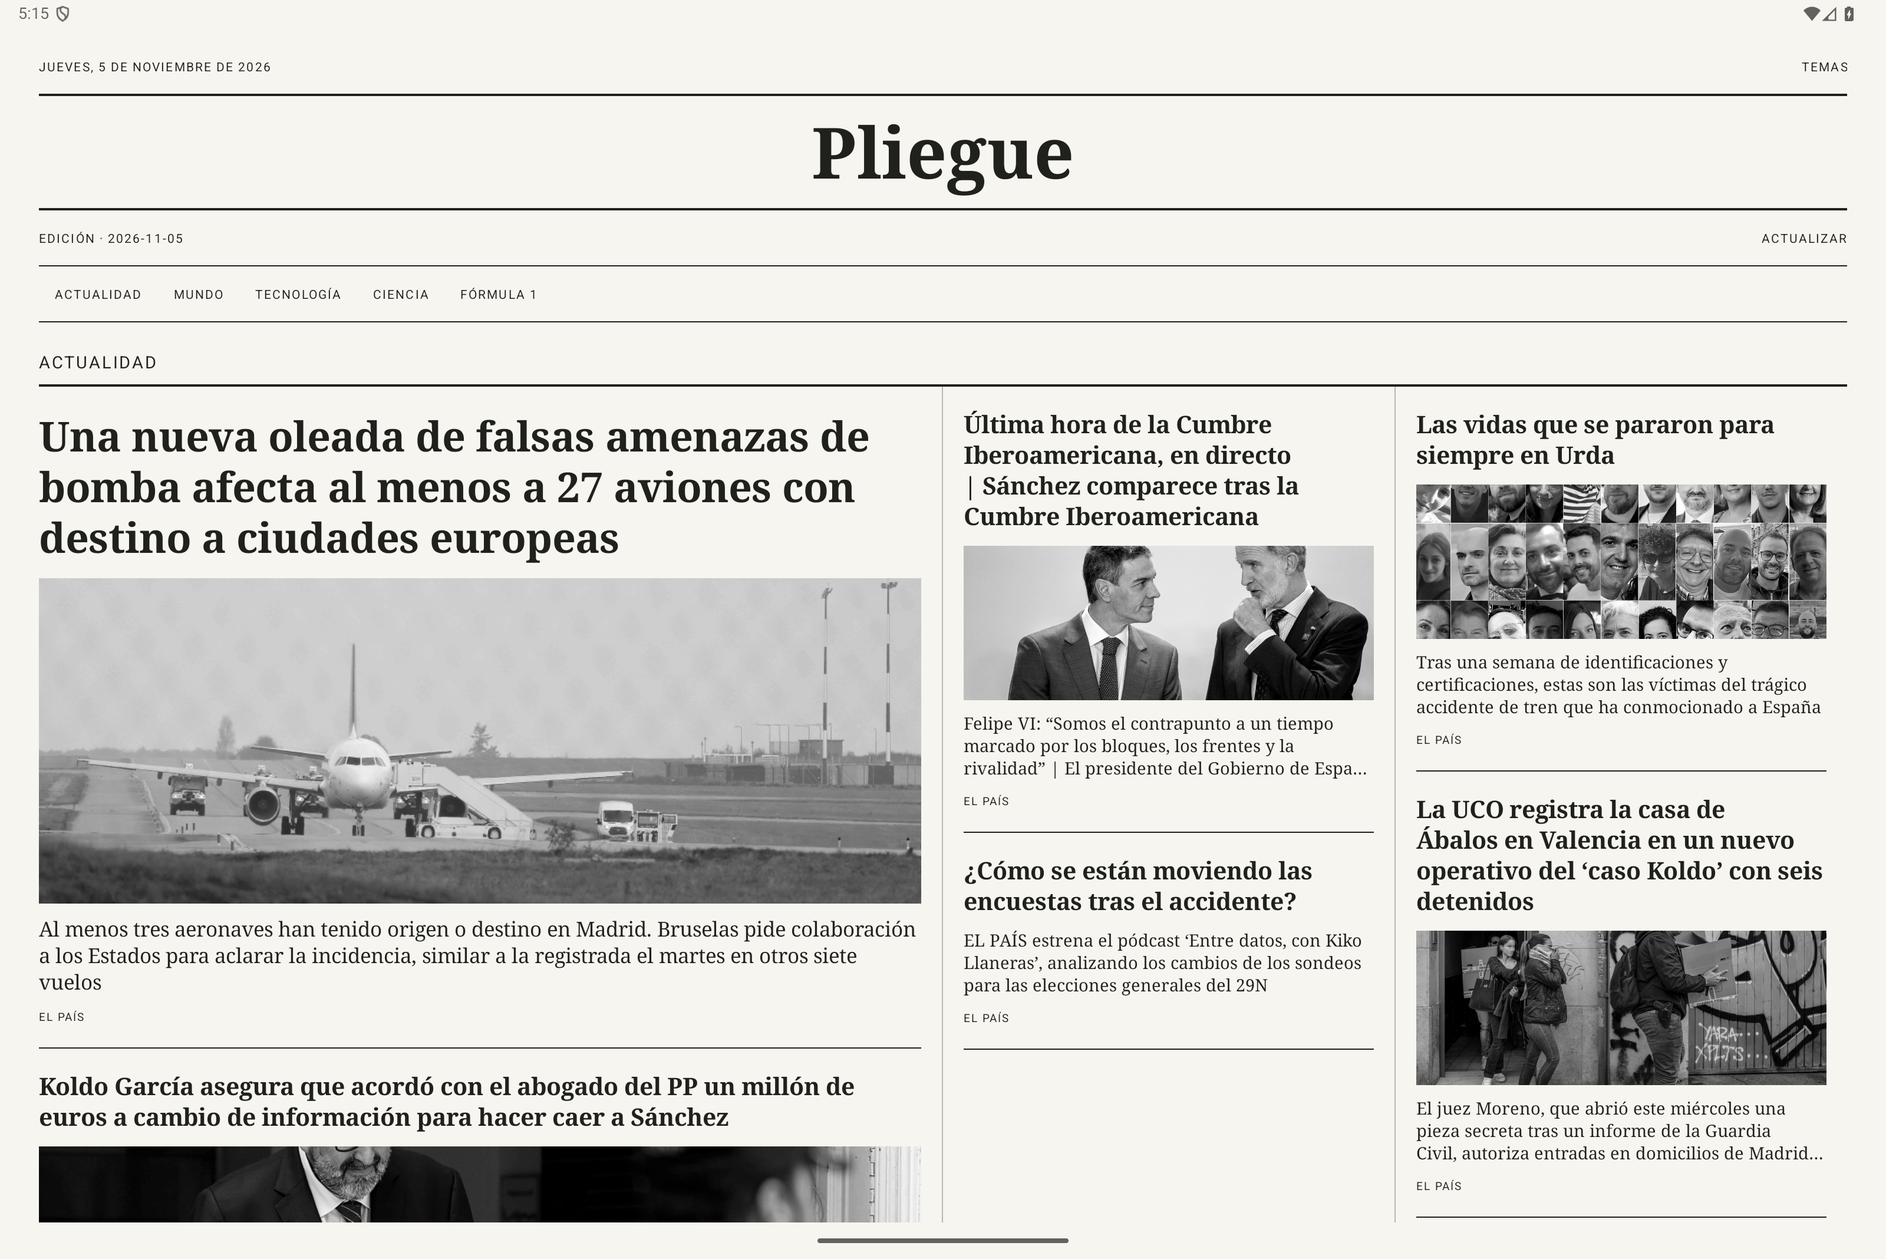
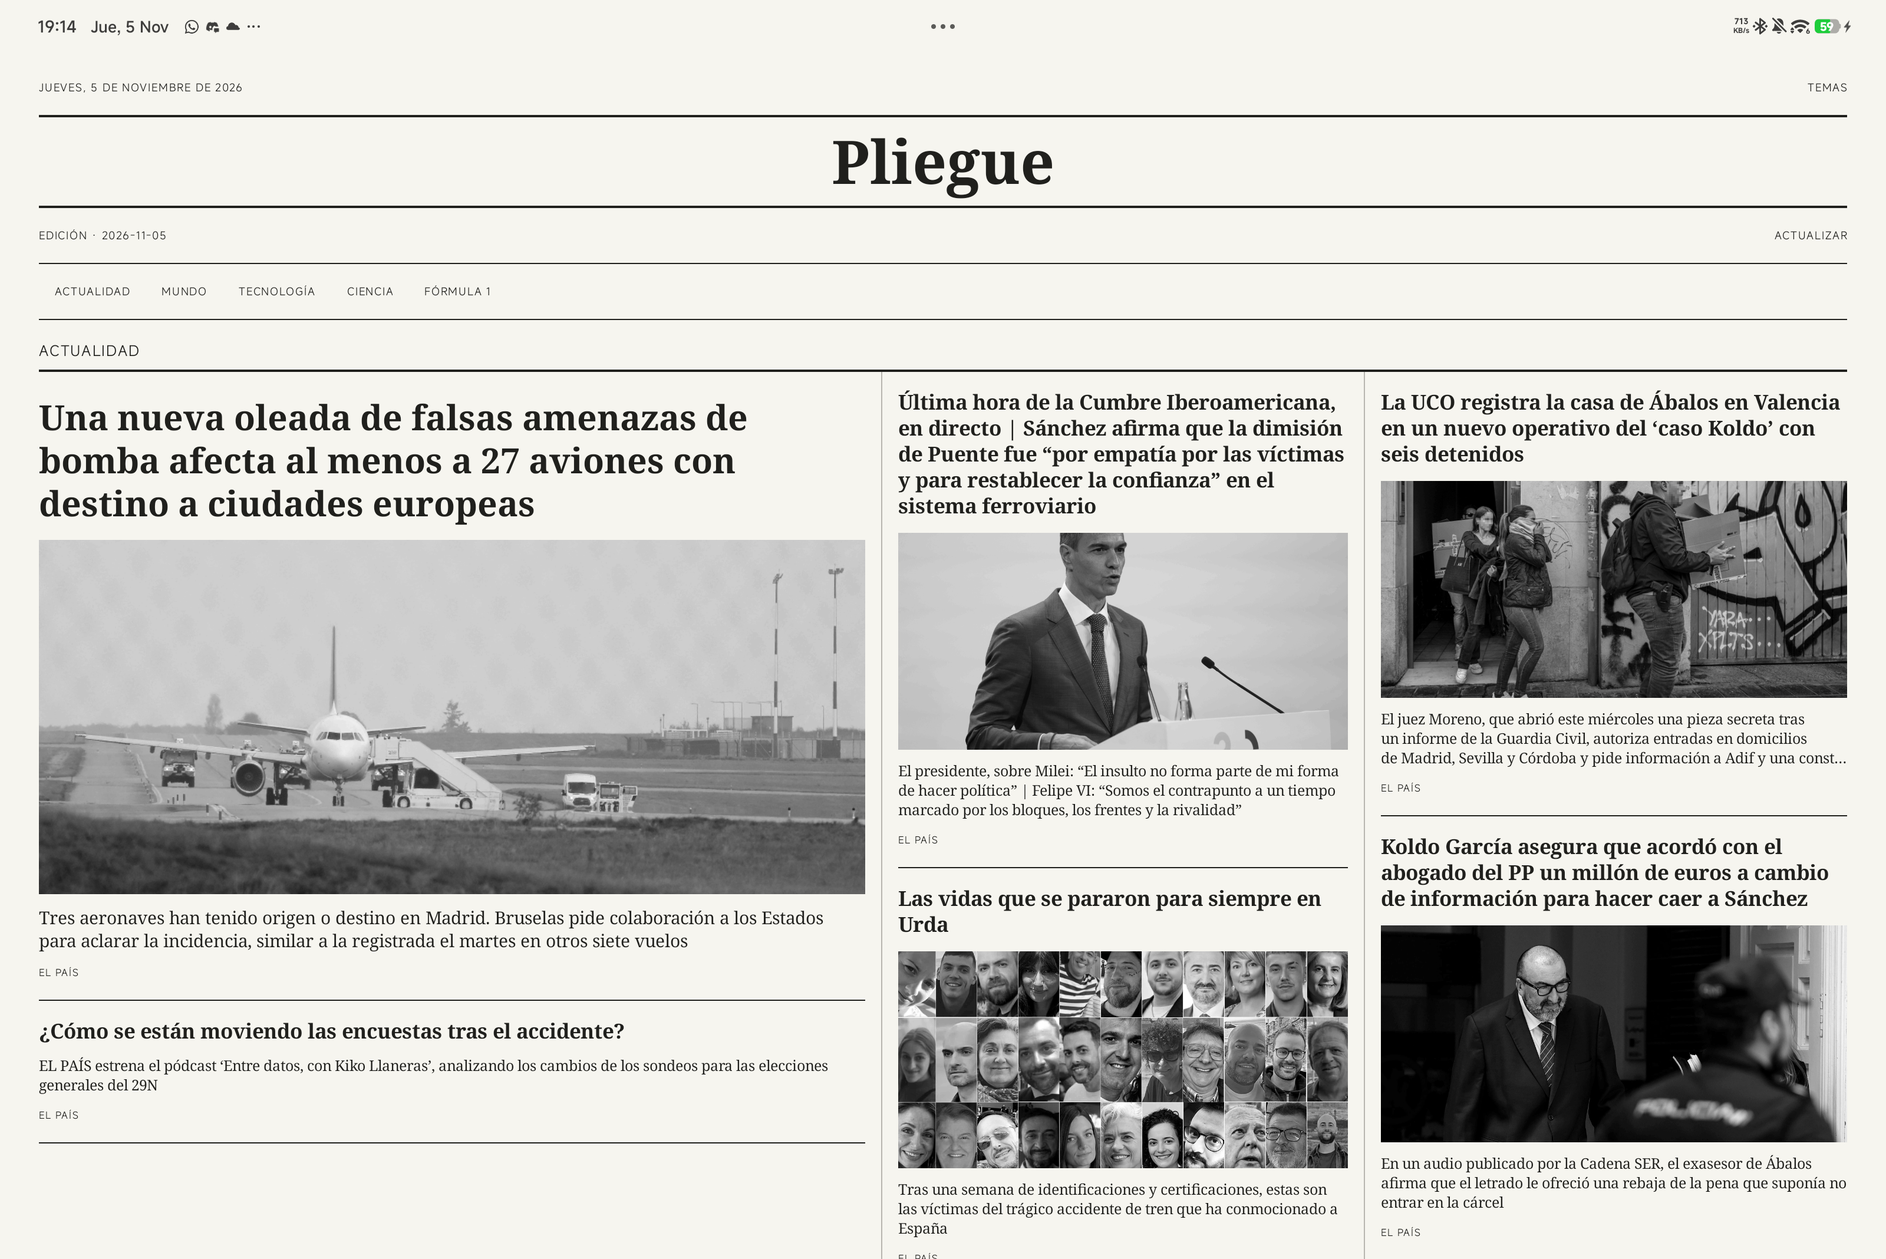
fix: balance newspaper columns using measured article heights

diff --git a/app/src/main/java/es/pablo/periodico/MainActivity.java b/app/src/main/java/es/pablo/periodico/MainActivity.java
@@ -27,6 +27,7 @@ import org.json.JSONException;
 import org.json.JSONObject;
 import java.text.DateFormat;
 import java.util.ArrayList;
+import java.util.Arrays;
 import java.util.Date;
 import java.util.LinkedHashMap;
 import java.util.Locale;
@@ -37,8 +38,8 @@ public class MainActivity extends Activity {
     private LinearLayout content, sections;
     private TextView status, loadStatus, retry;
     private ScrollView scroll;
-    private boolean refreshing, extending, endChecked;
-    private int generation, shownCount;
+    private boolean refreshing, extending, endChecked, pagePending;
+    private int generation, shownCount, restoreCount, restoreY = -1;
     private News.Catalog catalog;
     private final LinkedHashMap<String, TextView> firstHeadings = new LinkedHashMap<>();
     private final ArrayList<ArticlePhoto> photos = new ArrayList<>();
@@ -71,7 +72,7 @@ public class MainActivity extends Activity {
         view.setBackgroundColor(ink);
         host.addView(view, new LinearLayout.LayoutParams(-1, dp(height)));
     }
-    private LinearLayout column(LinearLayout row, float weight, boolean divider) {
+    private LinearLayout column(LinearLayout row, int width, boolean divider, boolean last) {
         if (divider) {
             View rule = new View(this);
             rule.setBackgroundColor(Color.rgb(183, 181, 174));
@@ -79,8 +80,8 @@ public class MainActivity extends Activity {
         }
         LinearLayout column = new LinearLayout(this);
         column.setOrientation(LinearLayout.VERTICAL);
-        column.setPadding(divider ? dp(18) : 0, 0, dp(18), 0);
-        row.addView(column, new LinearLayout.LayoutParams(0, -2, weight));
+        column.setPadding(divider ? dp(14) : 0, 0, last ? 0 : dp(14), 0);
+        row.addView(column, new LinearLayout.LayoutParams(width, -2));
         return column;
     }
     @Override public void onCreate(Bundle state) {
@@ -94,17 +95,10 @@ public class MainActivity extends Activity {
         render();
         if (state != null) {
             endChecked = state.getBoolean("endChecked", false);
-            int count = state.getInt("shownCount", shownCount);
-            while (catalog.hasMore() && shownCount < count) appendPage();
+            restoreCount = state.getInt("shownCount", shownCount);
+            restoreY = state.getInt("scrollY", 0);
+            if (!pagePending) appendPage();
             if (!catalog.hasMore() && endChecked) setFeedStatus("Has llegado al final de las noticias disponibles.", true);
-            int position = state.getInt("scrollY", 0);
-            scroll.getViewTreeObserver().addOnGlobalLayoutListener(new ViewTreeObserver.OnGlobalLayoutListener() {
-                @Override public void onGlobalLayout() {
-                    scroll.getViewTreeObserver().removeOnGlobalLayoutListener(this);
-                    scroll.scrollTo(0, position);
-                    updatePhotos();
-                }
-            });
         }
         boolean needsImages = false;
         try {
@@ -127,7 +121,7 @@ public class MainActivity extends Activity {
         LinearLayout page = new LinearLayout(this);
         page.setOrientation(LinearLayout.VERTICAL);
         int gutter = getResources().getConfiguration().screenWidthDp < 600 ? 20 : 34;
-        page.setPadding(dp(gutter), dp(10), dp(gutter), dp(36));
+        page.setPadding(dp(gutter), dp(6), dp(gutter), dp(28));
         scroll.addView(page);
 
         LinearLayout top = new LinearLayout(this);
@@ -144,7 +138,7 @@ public class MainActivity extends Activity {
         rule(page, 2);
         TextView masthead = text(getString(R.string.app_name), getResources().getConfiguration().screenWidthDp >= 600 ? 62 : 42, true);
         masthead.setGravity(Gravity.CENTER);
-        masthead.setPadding(0, dp(6), 0, dp(8));
+        masthead.setPadding(0, dp(2), 0, dp(4));
         page.addView(masthead);
         rule(page, 2);
 
@@ -182,6 +176,7 @@ public class MainActivity extends Activity {
             if (y > oldY) maybeLoadMore();
         });
         scroll.getViewTreeObserver().addOnGlobalLayoutListener(() -> {
+            if (pagePending && content.getWidth() > 0) content.post(() -> { if (pagePending && !isDestroyed()) appendPage(); });
             updatePhotos();
             if (scroll.getHeight() > 0 && scroll.getChildAt(0).getHeight() <= scroll.getHeight() + dp(240)) maybeLoadMore();
         });
@@ -194,6 +189,8 @@ public class MainActivity extends Activity {
         sections.removeAllViews();
         firstHeadings.clear();
         shownCount = 0;
+        restoreCount = 0;
+        restoreY = -1;
         ArrayList<String> selected = new ArrayList<>();
         for (String topic : News.TOPICS)
             if (getSharedPreferences("settings", 0).getBoolean(topic, true)) selected.add(topic);
@@ -215,15 +212,17 @@ public class MainActivity extends Activity {
         scroll.scrollTo(0, 0);
     }
     private void appendPage() {
-        LinkedHashMap<String, ArrayList<JSONObject>> grouped = catalog.nextPage(6);
-        if (shownCount == 0 && !grouped.isEmpty()) content.removeAllViews();
-        int width = getResources().getConfiguration().screenWidthDp;
-        int columns = width >= 1400 ? 4 : width >= 1000 ? 3 : width >= 600 ? 2 : 1;
-        boolean opening = shownCount == 0;
-        for (Map.Entry<String, ArrayList<JSONObject>> section : grouped.entrySet()) {
+        int width = content.getWidth();
+        if (width == 0) { pagePending = true; return; }
+        pagePending = false;
+        do {
+            LinkedHashMap<String, ArrayList<JSONObject>> grouped = catalog.nextPage(6);
+            if (shownCount == 0 && !grouped.isEmpty()) content.removeAllViews();
+            boolean opening = shownCount == 0;
+            for (Map.Entry<String, ArrayList<JSONObject>> section : grouped.entrySet()) {
                 TextView heading = label(section.getKey());
                 heading.setTextSize(15);
-                heading.setPadding(0, dp(24), 0, dp(10));
+                heading.setPadding(0, dp(18), 0, dp(8));
                 content.addView(heading);
                 if (!firstHeadings.containsKey(section.getKey())) {
                     firstHeadings.put(section.getKey(), heading);
@@ -236,41 +235,60 @@ public class MainActivity extends Activity {
                 }
                 rule(content, 2);
                 ArrayList<JSONObject> articles = section.getValue();
-                if (opening && columns > 1 && articles.size() >= 3) {
-                    LinearLayout leadRow = new LinearLayout(this);
-                    content.addView(leadRow);
-                    LinearLayout lead = column(leadRow, columns >= 3 ? 2 : 1.35f, false);
-                    LinearLayout side = column(leadRow, 1, true);
-                    LinearLayout far = columns >= 4 ? column(leadRow, 1, true) : side;
-                    addArticle(lead, articles.get(0), 0);
-                    addArticle(side, articles.get(1), 2);
-                    addArticle(far, articles.get(2), 2);
-                    for (int i = 3; i < articles.size(); i++) {
-                        LinearLayout target = columns >= 4 ? (i == 3 ? side : i == 4 ? far : lead)
-                            : (i % 2 == 1 ? lead : side);
-                        addArticle(target, articles.get(i), 2);
-                    }
-                } else {
-                    LinearLayout row = new LinearLayout(this);
-                    content.addView(row);
-                    ArrayList<LinearLayout> rails = new ArrayList<>();
-                    int count = Math.min(columns, articles.size());
-                    for (int i = 0; i < count; i++) rails.add(column(row, i == 0 && count > 1 ? 1.25f : 1, i > 0));
-                    for (int i = 0; i < articles.size(); i++)
-                        addArticle(rails.get(i % count), articles.get(i), i == 0 ? 1 : 2);
-                }
+                composeSection(articles, width, opening, Math.max(0, Arrays.asList(News.TOPICS).indexOf(section.getKey())));
                 shownCount += articles.size();
                 opening = false;
-        }
+            }
+        } while (shownCount < restoreCount && catalog.hasMore());
+        restoreCount = 0;
         boolean finished = !catalog.hasMore() && endChecked;
         setFeedStatus(finished ? "Has llegado al final de las noticias disponibles." : "", finished);
+        if (restoreY >= 0) {
+            int position = restoreY;
+            restoreY = -1;
+            scroll.getViewTreeObserver().addOnGlobalLayoutListener(new ViewTreeObserver.OnGlobalLayoutListener() {
+                @Override public void onGlobalLayout() {
+                    scroll.getViewTreeObserver().removeOnGlobalLayoutListener(this);
+                    scroll.scrollTo(0, position);
+                    updatePhotos();
+                }
+            });
+        }
+    }
+    private void composeSection(ArrayList<JSONObject> articles, int width, boolean opening, int variant) {
+        int columns = Math.min(width >= dp(1000) ? 3 : width >= dp(550) ? 2 : 1, (articles.size() + 1) / 2);
+        int feature = opening ? 0 : variant % columns;
+        float[] weights = new float[columns];
+        Arrays.fill(weights, 1);
+        weights[feature] = opening ? 1.75f : variant % 2 == 0 ? 1.45f : 1.25f;
+        int[] widths = ArticleColumns.widths(width, dp(1), weights);
+        int[] heights = new int[columns];
+        LinearLayout row = new LinearLayout(this);
+        content.addView(row);
+        ArrayList<LinearLayout> rails = new ArrayList<>();
+        for (int i = 0; i < columns; i++) rails.add(column(row, widths[i], i > 0, i == columns - 1));
+        int featureWidth = widths[feature] - rails.get(feature).getPaddingLeft() - rails.get(feature).getPaddingRight();
+        LinearLayout lead = articleBlock(articles.get(0), opening ? 0 : 1, featureWidth);
+        heights[feature] = placeArticle(rails.get(feature), lead, featureWidth, opening ? 0 : 1);
+        int narrowWidth = width;
+        for (int i = 0; i < columns; i++) narrowWidth = Math.min(narrowWidth, widths[i] - rails.get(i).getPaddingLeft() - rails.get(i).getPaddingRight());
+        ArrayList<LinearLayout> remaining = new ArrayList<>();
+        for (int i = 1; i < articles.size(); i++) remaining.add(articleBlock(articles.get(i), 2, narrowWidth));
+        // Place tall stories first so a final long headline cannot leave an empty neighbouring column.
+        remaining.sort((a, b) -> Integer.compare(b.getMeasuredHeight(), a.getMeasuredHeight()));
+        for (LinearLayout block : remaining) {
+            int target = ArticleColumns.shortest(heights);
+            LinearLayout rail = rails.get(target);
+            int articleWidth = widths[target] - rail.getPaddingLeft() - rail.getPaddingRight();
+            heights[target] += placeArticle(rail, block, articleWidth, 2);
+        }
     }
     private void setFeedStatus(String message, boolean canRetry) {
         loadStatus.setText(shownCount + " noticias mostradas" + (message.isEmpty() ? "" : " · " + message));
         retry.setVisibility(canRetry ? View.VISIBLE : View.GONE);
     }
     private void maybeLoadMore() {
-        if (refreshing || extending || catalog == null || scroll.getChildCount() == 0) return;
+        if (refreshing || extending || pagePending || catalog == null || scroll.getChildCount() == 0) return;
         int remaining = scroll.getChildAt(0).getHeight() - scroll.getHeight() - scroll.getScrollY();
         if (remaining > dp(600)) return;
         if (catalog.hasMore()) appendPage();
@@ -312,12 +330,23 @@ public class MainActivity extends Activity {
             }
         }
     }
-    private void addArticle(LinearLayout host, JSONObject article, int prominence) {
+    private int photoHeight(int width, int prominence) {
+        return Math.max(dp(prominence == 0 ? 210 : prominence == 1 ? 150 : 105),
+            Math.min(dp(prominence == 0 ? 310 : prominence == 1 ? 250 : 190), Math.round(width / (prominence == 0 ? 1.9f : prominence == 1 ? 1.65f : 1.85f))));
+    }
+    private int placeArticle(LinearLayout host, LinearLayout block, int width, int prominence) {
+        for (int i = 0; i < block.getChildCount(); i++)
+            if (block.getChildAt(i) instanceof ImageView) block.getChildAt(i).getLayoutParams().height = photoHeight(width, prominence);
+        host.addView(block);
+        rule(host, 1);
+        block.measure(View.MeasureSpec.makeMeasureSpec(width, View.MeasureSpec.EXACTLY), View.MeasureSpec.makeMeasureSpec(0, View.MeasureSpec.UNSPECIFIED));
+        return block.getMeasuredHeight() + dp(1);
+    }
+    private LinearLayout articleBlock(JSONObject article, int prominence, int width) {
         LinearLayout block = new LinearLayout(this);
         block.setOrientation(LinearLayout.VERTICAL);
-        block.setPadding(0, dp(18), 0, dp(20));
+        block.setPadding(0, dp(prominence == 0 ? 18 : 14), 0, dp(18));
         block.setOnClickListener(view -> detail(article));
-        host.addView(block);
         TextView title = text(article.optString("title"), prominence == 0 ? 36 : prominence == 1 ? 25 : 21, true);
         title.setLineSpacing(dp(2), 1f);
         block.addView(title);
@@ -326,7 +355,7 @@ public class MainActivity extends Activity {
             ImageView image = new ImageView(this);
             image.setScaleType(ImageView.ScaleType.CENTER_CROP);
             image.setContentDescription("Fotografía de la noticia: " + article.optString("title"));
-            LinearLayout.LayoutParams imageLayout = new LinearLayout.LayoutParams(-1, dp(prominence == 0 ? 285 : prominence == 1 ? 170 : 135));
+            LinearLayout.LayoutParams imageLayout = new LinearLayout.LayoutParams(-1, photoHeight(width, prominence));
             imageLayout.topMargin = dp(12);
             block.addView(image, imageLayout);
             image.setVisibility(View.INVISIBLE);
@@ -345,7 +374,8 @@ public class MainActivity extends Activity {
         source.setTextSize(10);
         source.setPadding(0, dp(12), 0, 0);
         block.addView(source);
-        rule(host, 1);
+        block.measure(View.MeasureSpec.makeMeasureSpec(width, View.MeasureSpec.EXACTLY), View.MeasureSpec.makeMeasureSpec(0, View.MeasureSpec.UNSPECIFIED));
+        return block;
     }
     private void refresh() {
         if (refreshing) return;

diff --git a/app/src/test/java/es/pablo/periodico/ArticleColumnsCheck.java b/app/src/test/java/es/pablo/periodico/ArticleColumnsCheck.java
@@ -1,0 +1,15 @@
+package es.pablo.periodico;
+
+public final class ArticleColumnsCheck {
+    public static void main(String[] args) {
+        int[] widths = ArticleColumns.widths(3067, 2, new float[]{1.75f, 1, 1});
+        require(widths[0] > widths[1] && widths[0] + widths[1] + widths[2] + 4 == 3067, "Column widths lost pixels or hierarchy");
+        require(ArticleColumns.widths(457, 2, new float[]{1})[0] == 457, "Single column width changed");
+        int[] heights = {600, 180, 340};
+        for (int article : new int[]{320, 170, 150}) heights[ArticleColumns.shortest(heights)] += article;
+        require(heights[0] == 600 && heights[1] == 650 && heights[2] == 510, "Measured short columns were not filled");
+        require(ArticleColumns.shortest(new int[]{300, 100, 100}) == 1, "Ties are unstable");
+        System.out.println("ArticleColumnsCheck: exact widths, editorial proportions and measured-height packing passed");
+    }
+    private static void require(boolean condition, String message) { if (!condition) throw new AssertionError(message); }
+}

diff --git a/app/src/main/java/es/pablo/periodico/ArticleColumns.java b/app/src/main/java/es/pablo/periodico/ArticleColumns.java
@@ -1,0 +1,21 @@
+package es.pablo.periodico;
+
+final class ArticleColumns {
+    static int[] widths(int totalWidth, int dividerWidth, float[] weights) {
+        int available = totalWidth - dividerWidth * (weights.length - 1);
+        float totalWeight = 0;
+        for (float weight : weights) totalWeight += weight;
+        int[] widths = new int[weights.length];
+        int used = 0;
+        for (int i = 0; i < weights.length; i++) {
+            widths[i] = i == weights.length - 1 ? available - used : (int)(available * weights[i] / totalWeight);
+            used += widths[i];
+        }
+        return widths;
+    }
+    static int shortest(int[] heights) {
+        int selected = 0;
+        for (int i = 1; i < heights.length; i++) if (heights[i] < heights[selected]) selected = i;
+        return selected;
+    }
+}

diff --git a/README.md b/README.md
@@ -4,7 +4,7 @@
 
 Periódico personal para Android, pensado para tablets. Portada de varias columnas y anchos distintos, fotografías en escala de grises y lectura de noticias dentro de la app.
 
-[Descargar APK 0.4.0](https://github.com/PabloValencia14/Pliegue/releases/tag/v0.4.0)
+[Descargar APK 0.4.1](https://github.com/PabloValencia14/Pliegue/releases/tag/v0.4.1)
 
 ## Lectura
 
@@ -12,7 +12,7 @@ Periódico personal para Android, pensado para tablets. Portada de varias column
 - Una selección inicial por temas y más noticias al bajar, sin duplicar enlaces ya mostrados. Cuando se agota el catálogo descargado se comprueban nuevas publicaciones; si no las hay, se indica y se puede reintentar.
 - Resumen al pulsar una noticia y botón «Leer noticia» para abrir la página completa en el visor integrado.
 - Edición guardada en la tablet y actualización diaria con notificación a partir de las 8:00. Android puede retrasarla por ahorro de batería o falta de conexión.
-- Estética de papel y tinta: fotografías y visor en gris, tamaños de titulares distintos y piezas que ocupan varias columnas.
+- Estética de papel y tinta: fotografías y visor en gris, tamaños de titulares distintos y piezas que ocupan varias columnas. Los bloques se miden al ancho real y se reparten para equilibrar las alturas y reducir huecos.
 
 La selección sigue el orden de las fuentes, sin resúmenes generados por IA. Las fuentes tienen un número finito de artículos: la carga continua añade los disponibles y no inventa contenido. La web de un medio puede mostrar anuncios, consentimiento o suscripción. Las fotografías usan caché de memoria y necesitan conexión tras cerrar el proceso.
 
@@ -50,7 +50,7 @@ python tests/check_ui.py emulator-5554
 
 Comprueba fotografías, columnas, resumen, visor interno, vuelta, carga de noticias posteriores al primer lote y giro sin volver al inicio. Solo modifica emuladores. Las capturas se guardan en `app/build/ui-check`.
 
-`NewsImagesCheck.java` contiene 12 comprobaciones del parser de imágenes y `NewsPaginationCheck.java` comprueba paginación, enlaces únicos, fin del catálogo y nuevas publicaciones. Se ejecutan con el runtime Android mediante `app_process`.
+`ArticleColumnsCheck.java` comprueba anchos y reparto de bloques con alturas desiguales mediante Java estándar. `NewsImagesCheck.java` contiene 12 comprobaciones del parser de imágenes y `NewsPaginationCheck.java` comprueba paginación, enlaces únicos, fin del catálogo y nuevas publicaciones. Se ejecutan con el runtime Android mediante `app_process`.
 
 ## Desarrollo
 
@@ -58,4 +58,4 @@ Proyecto Java, sin bibliotecas adicionales de ejecución ni servidor propio. El 
 
 El tablero del proyecto está en `kanvas.json`; sus instrucciones se encuentran en `.agents/skills/kanvas/SKILL.md`.
 
-La versión de portada y visor fue comprobada en un emulador Android 16 con resolución y densidad equivalentes a una Pad 7. La instalación física de esta actualización y la ejecución nocturna automática siguen pendientes de comprobar.
+Las versiones 0.4.0 y 0.4.1 se han probado en una Pad 7 con Android 16: portada, fotos, lector interno, carga de más noticias y giro. También se ha forzado una actualización en segundo plano, que generó la notificación sin abrir la app. La ejecución nocturna automática sigue pendiente de observar.
